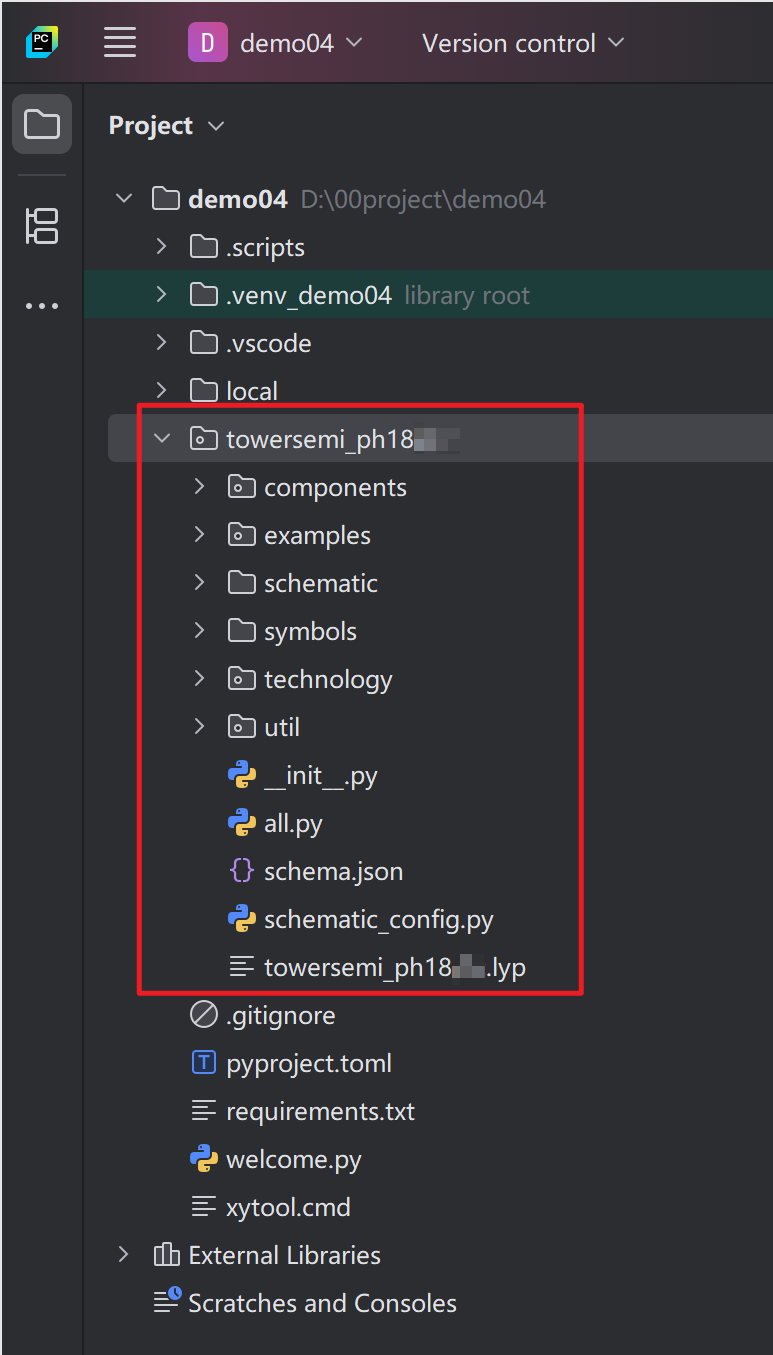
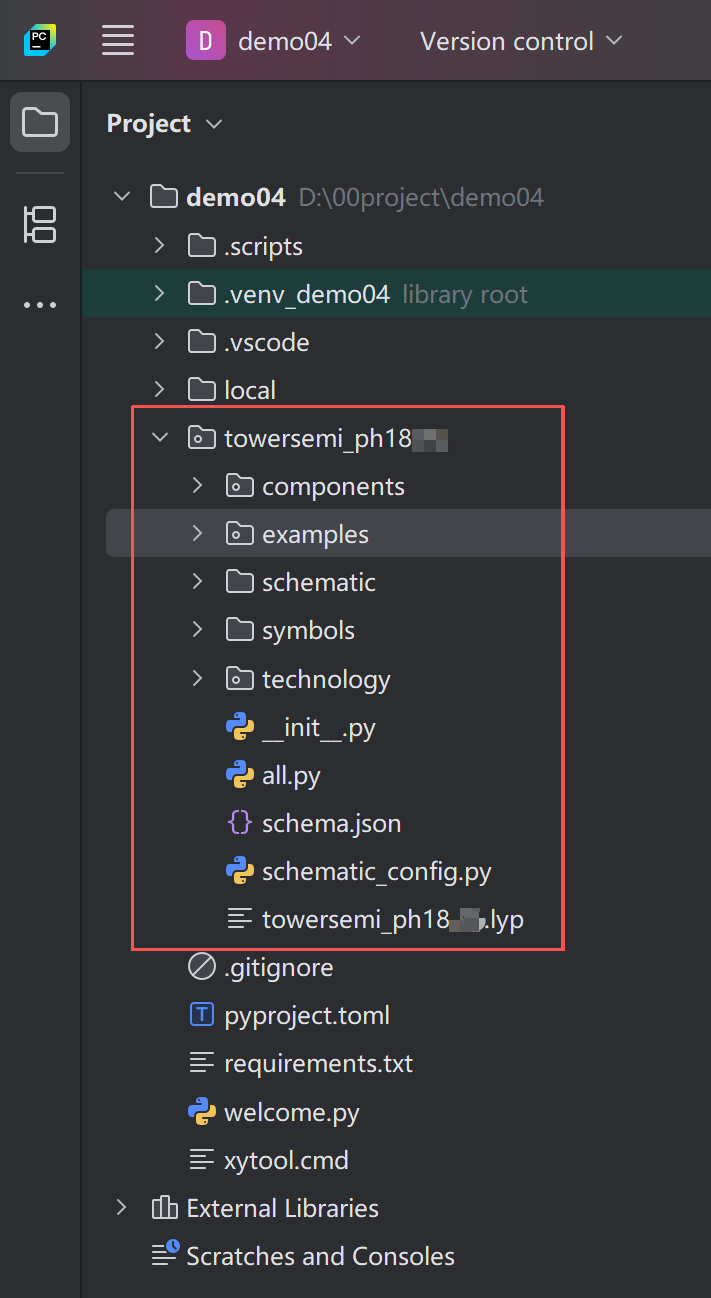
update_261012

diff --git a/docs/source/structure/index.rst b/docs/source/structure/index.rst
@@ -3,7 +3,7 @@ PDK structure
 
 Process Design Kit (PDK) is a tool for designated users to generate circuit layouts based on Tower Semiconductor design rules and technology settings.
 
-``towersemi_ph18mcg`` package includes four subfolders: ``components``, ``examples``, ``schematic``, ``symbols``, ``technology``, and ``util``.
+``towersemi_ph18mcg`` package includes five subfolders: ``components``, ``examples``, ``schematic``, ``symbols`` and ``technology``.
 
 * ``components``
 
@@ -28,12 +28,6 @@ Process Design Kit (PDK) is a tool for designated users to generate circuit layo
     * Store the technology setting which matched the Tower Semiconductor design rules. We recommend users not to change the settings in technology folder.
 
     * See chapter ``Technology setting`` for more specific definition.
-
-* ``util``
-
-    * Useful functions when generating circuit layouts.
-
-    * Please see **PhotoCAD** online manual for more information.
 
 * ``towersemi_ph18mcg.lyp`` : This file allows layout tools e.g. KLayout to recognize the layer information when displaying gds file to the layout tool.
 

diff --git a/docs/source/tech/layers.rst b/docs/source/tech/layers.rst
@@ -5,7 +5,7 @@ The layers are auto-generated by filling the ``layers.csv`` file, ``FLYLINE_MARK
 
 ::
 
-    class LAYER(BASE_LAYER):
+    class LAYER(TECH.LAYER):
         swg = Layer(PROCESS.swg, PURPOSE.drawing, 'Strip waveguide')
         rwg = Layer(PROCESS.rwg, PURPOSE.drawing, 'ridge waveguide')
         revswg = Layer(PROCESS.revswg, PURPOSE.drawing, 'reverse strip WG')

diff --git a/docs/source/quick_start/PhotoCAD.rst b/docs/source/quick_start/PhotoCAD.rst
@@ -31,7 +31,7 @@ Configure the workspace in the pop-up window.
 
 * ``Python Version``
 
-    * Select the Python version. We recommend that users select Python 3.8.
+    * Select the Python version. We recommend that users select Python 3.10.
 
 .. image:: ../images/PhotoCAD_2.png
 
